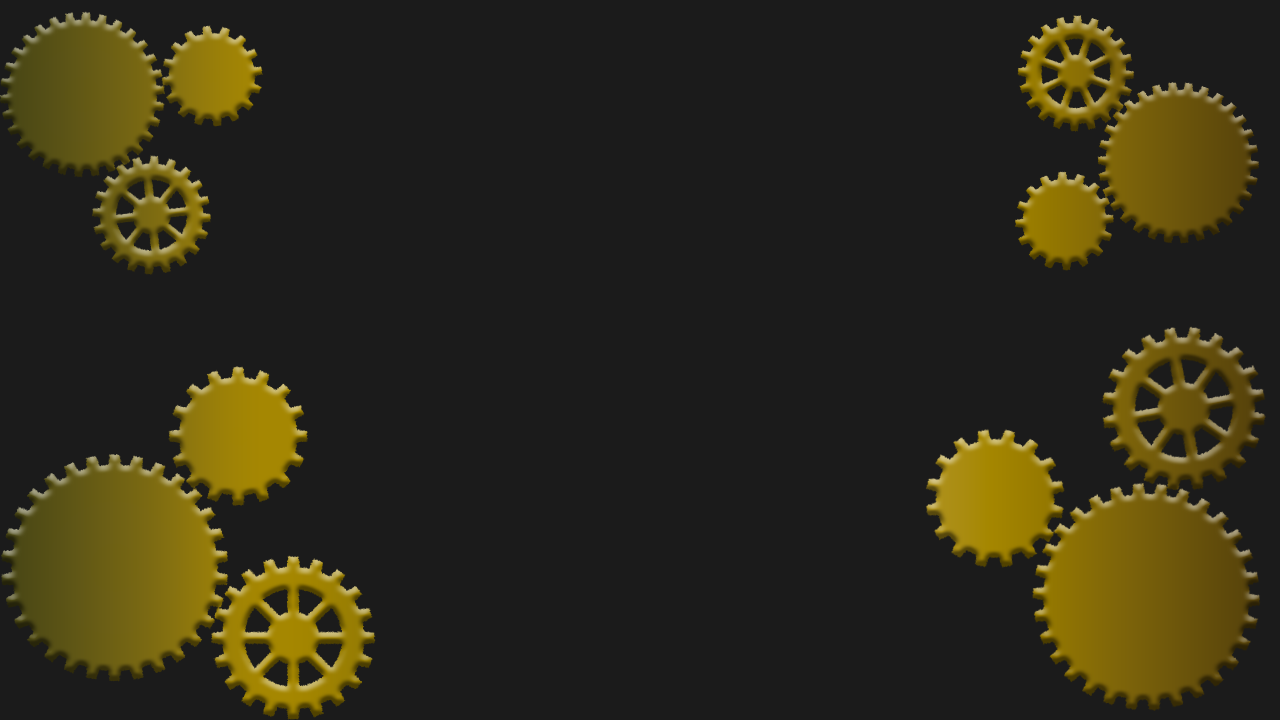
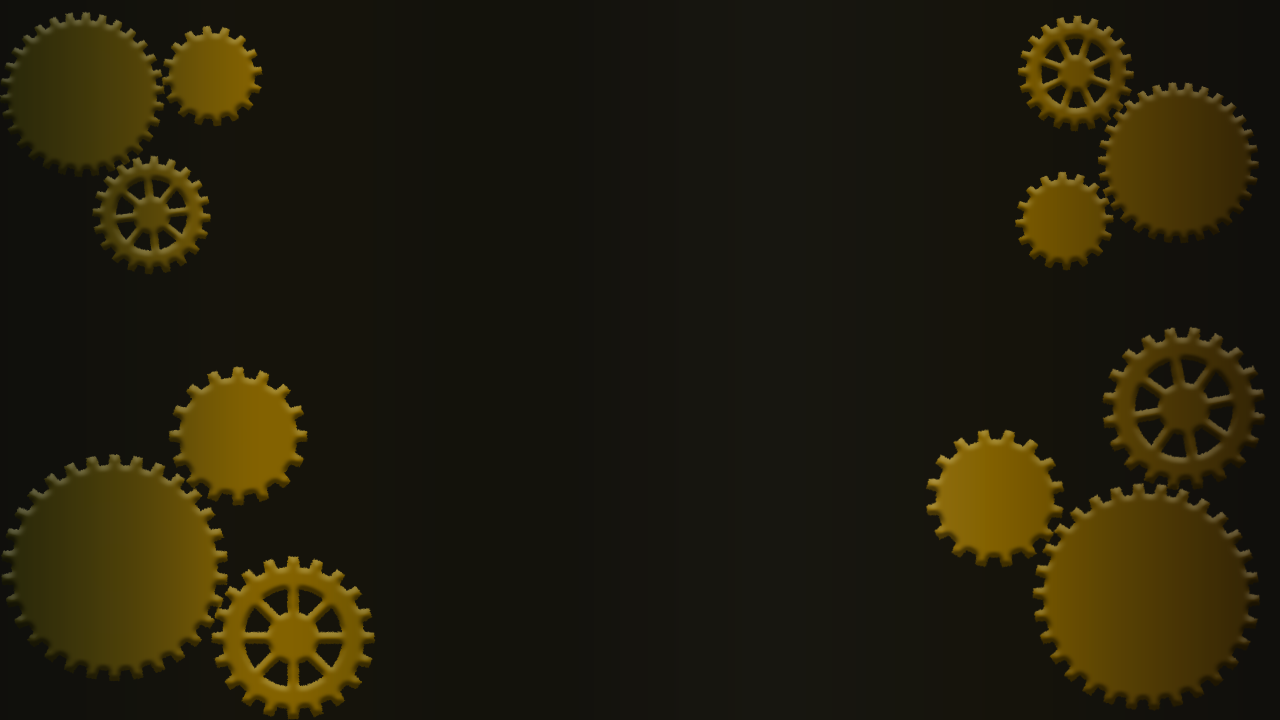
up

diff --git a/project/Summer2/Game/UI/Option/ScreenModeUI.h b/project/Summer2/Game/UI/Option/ScreenModeUI.h
@@ -14,6 +14,7 @@ private:
     bool m_isWindowMode;
     int m_windowModeHandle;
     int m_fullScreenModeHandle;
+	int m_backgroundHandle;
 	Vector2 m_pos;
 };
 
